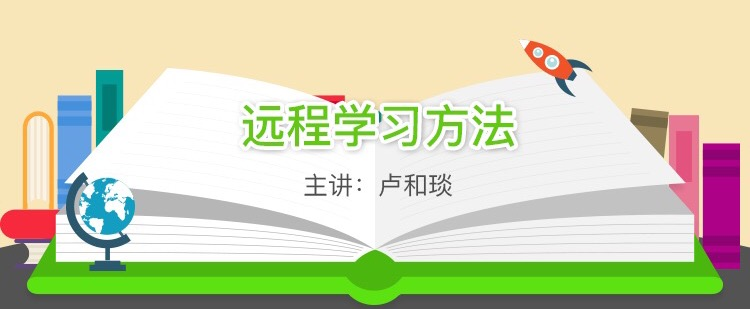
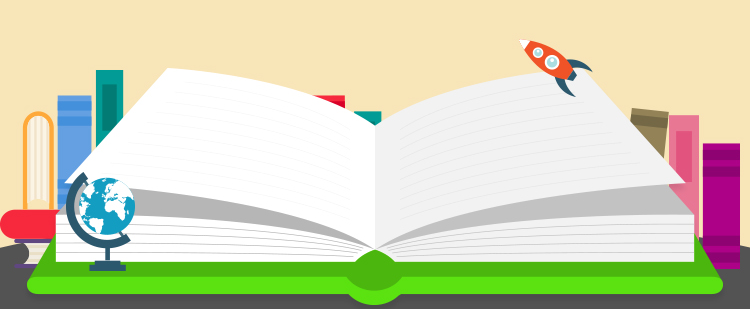
将上方的banner由固定的图片改成由一个固定的背景图+可变的title和主讲人，并修改拆分了fakeCourses中涉及到用户是否点击过音频的部分，这些涉及到用户信息的应该与音频部分的内容分开

diff --git a/scnuOnline/pages/course/course.js b/scnuOnline/pages/course/course.js
@@ -9,8 +9,6 @@ Page({
         playUrl: 'http://ws.stream.qqmusic.qq.com/M500001VfvsJ21xFqb.mp3?guid=ffffffff82def4af4b12b3cd9337d5e7&uin=346897220&vkey=6292F51E1E384E06DCBDC9AB7C49FD713D632D313AC4858BACB8DDD29067D3C601481D36E62053BF8DFEAF74C0A5CCFADD6471160CAF3E6A&fromtag=46',
         duration: 556,
         videoUrl:'http://wxsnsdy.tc.qq.com/105/20210/snsdyvideodownload?filekey=30280201010421301f0201690402534804102ca905ce620b1241b726bc41dcff44e00204012882540400&bizid=1023&hy=SH&fileparam=302c020101042530230204136ffd93020457e3c4ff02024ef202031e8d7f02030f42400204045a320a0201000400',
-        audioplayed: false,
-        videoplayed: false
       },
       {
         id: "222",
@@ -18,8 +16,6 @@ Page({
         playUrl: 'http://ws.stream.qqmusic.qq.com/M500001VfvsJ21xFqb.mp3?guid=ffffffff82def4af4b12b3cd9337d5e7&uin=346897220&vkey=6292F51E1E384E06DCBDC9AB7C49FD713D632D313AC4858BACB8DDD29067D3C601481D36E62053BF8DFEAF74C0A5CCFADD6471160CAF3E6A&fromtag=46',
         duration: 556,
         videoUrl: 'http://wxsnsdy.tc.qq.com/105/20210/snsdyvideodownload?filekey=30280201010421301f0201690402534804102ca905ce620b1241b726bc41dcff44e00204012882540400&bizid=1023&hy=SH&fileparam=302c020101042530230204136ffd93020457e3c4ff02024ef202031e8d7f02030f42400204045a320a0201000400',
-        audioplayed: false,
-        videoplayed: false
       },
       {
         id: "333",
@@ -27,8 +23,6 @@ Page({
         playUrl: 'http://ws.stream.qqmusic.qq.com/M500001VfvsJ21xFqb.mp3?guid=ffffffff82def4af4b12b3cd9337d5e7&uin=346897220&vkey=6292F51E1E384E06DCBDC9AB7C49FD713D632D313AC4858BACB8DDD29067D3C601481D36E62053BF8DFEAF74C0A5CCFADD6471160CAF3E6A&fromtag=46',
         duration: 556,
         videoUrl: 'http://wxsnsdy.tc.qq.com/105/20210/snsdyvideodownload?filekey=30280201010421301f0201690402534804102ca905ce620b1241b726bc41dcff44e00204012882540400&bizid=1023&hy=SH&fileparam=302c020101042530230204136ffd93020457e3c4ff02024ef202031e8d7f02030f42400204045a320a0201000400',
-        audioplayed: false,
-        videoplayed: false
       },
       {
         id: "444",
@@ -37,8 +31,6 @@ Page({
         playUrl: 'http://ws.stream.qqmusic.qq.com/M500001VfvsJ21xFqb.mp3?guid=ffffffff82def4af4b12b3cd9337d5e7&uin=346897220&vkey=6292F51E1E384E06DCBDC9AB7C49FD713D632D313AC4858BACB8DDD29067D3C601481D36E62053BF8DFEAF74C0A5CCFADD6471160CAF3E6A&fromtag=46',
         duration: 556,
         videoUrl: 'http://wxsnsdy.tc.qq.com/105/20210/snsdyvideodownload?filekey=30280201010421301f0201690402534804102ca905ce620b1241b726bc41dcff44e00204012882540400&bizid=1023&hy=SH&fileparam=302c020101042530230204136ffd93020457e3c4ff02024ef202031e8d7f02030f42400204045a320a0201000400',
-        audioplayed: false,
-        videoplayed: false
       },
       {
         id: "555",
@@ -46,8 +38,6 @@ Page({
         playUrl: 'http://ws.stream.qqmusic.qq.com/M500001VfvsJ21xFqb.mp3?guid=ffffffff82def4af4b12b3cd9337d5e7&uin=346897220&vkey=6292F51E1E384E06DCBDC9AB7C49FD713D632D313AC4858BACB8DDD29067D3C601481D36E62053BF8DFEAF74C0A5CCFADD6471160CAF3E6A&fromtag=46',
         duration: 556,
         videoUrl: 'http://wxsnsdy.tc.qq.com/105/20210/snsdyvideodownload?filekey=30280201010421301f0201690402534804102ca905ce620b1241b726bc41dcff44e00204012882540400&bizid=1023&hy=SH&fileparam=302c020101042530230204136ffd93020457e3c4ff02024ef202031e8d7f02030f42400204045a320a0201000400',
-        audioplayed: false,
-        videoplayed: false
       },
       {
         id: "666",
@@ -55,6 +45,36 @@ Page({
         playUrl: 'http://ws.stream.qqmusic.qq.com/M500001VfvsJ21xFqb.mp3?guid=ffffffff82def4af4b12b3cd9337d5e7&uin=346897220&vkey=6292F51E1E384E06DCBDC9AB7C49FD713D632D313AC4858BACB8DDD29067D3C601481D36E62053BF8DFEAF74C0A5CCFADD6471160CAF3E6A&fromtag=46',
         duration: 556,
         videoUrl: 'http://wxsnsdy.tc.qq.com/105/20210/snsdyvideodownload?filekey=30280201010421301f0201690402534804102ca905ce620b1241b726bc41dcff44e00204012882540400&bizid=1023&hy=SH&fileparam=302c020101042530230204136ffd93020457e3c4ff02024ef202031e8d7f02030f42400204045a320a0201000400',
+      },
+    ],
+    userHistory:[
+      {
+        id:"111",
+        audioplayed: false,
+        videoplayed: false
+      },
+      {
+        id: "222",
+        audioplayed: false,
+        videoplayed: false
+      },
+      {
+        id: "333",
+        audioplayed: false,
+        videoplayed: false
+      },
+      {
+        id: "444",
+        audioplayed: false,
+        videoplayed: false
+      },
+      {
+        id: "555",
+        audioplayed: false,
+        videoplayed: false
+      },
+      {
+        id: "666",
         audioplayed: false,
         videoplayed: false
       },
@@ -108,15 +128,22 @@ Page({
     duration: '',
     isplay:false,
     first:false,
-
+    mainTitle:'',
+    speaker: ''
   },
-  onLoad: function () {
+  onLoad: function (options) {
+    // let mainTitle = options.mainTitle
+    let mainTitle = "远程学习方法"
+    // let speaker = options.speaker
+    let speaker = "卢和琰"
     var that = this;
     wx.getSystemInfo({ //根据手机的宽度计算滑条的位置
       success: function (res) {
         var sliderWidth = res.windowWidth / 3 - 10
         that.setData({
-          sliderLeft: (res.windowWidth / that.data.tabs.length - sliderWidth) / 2
+          sliderLeft: (res.windowWidth / that.data.tabs.length - sliderWidth) / 2,
+          mainTitle: mainTitle,
+          speaker:speaker
         });
       }
     });
